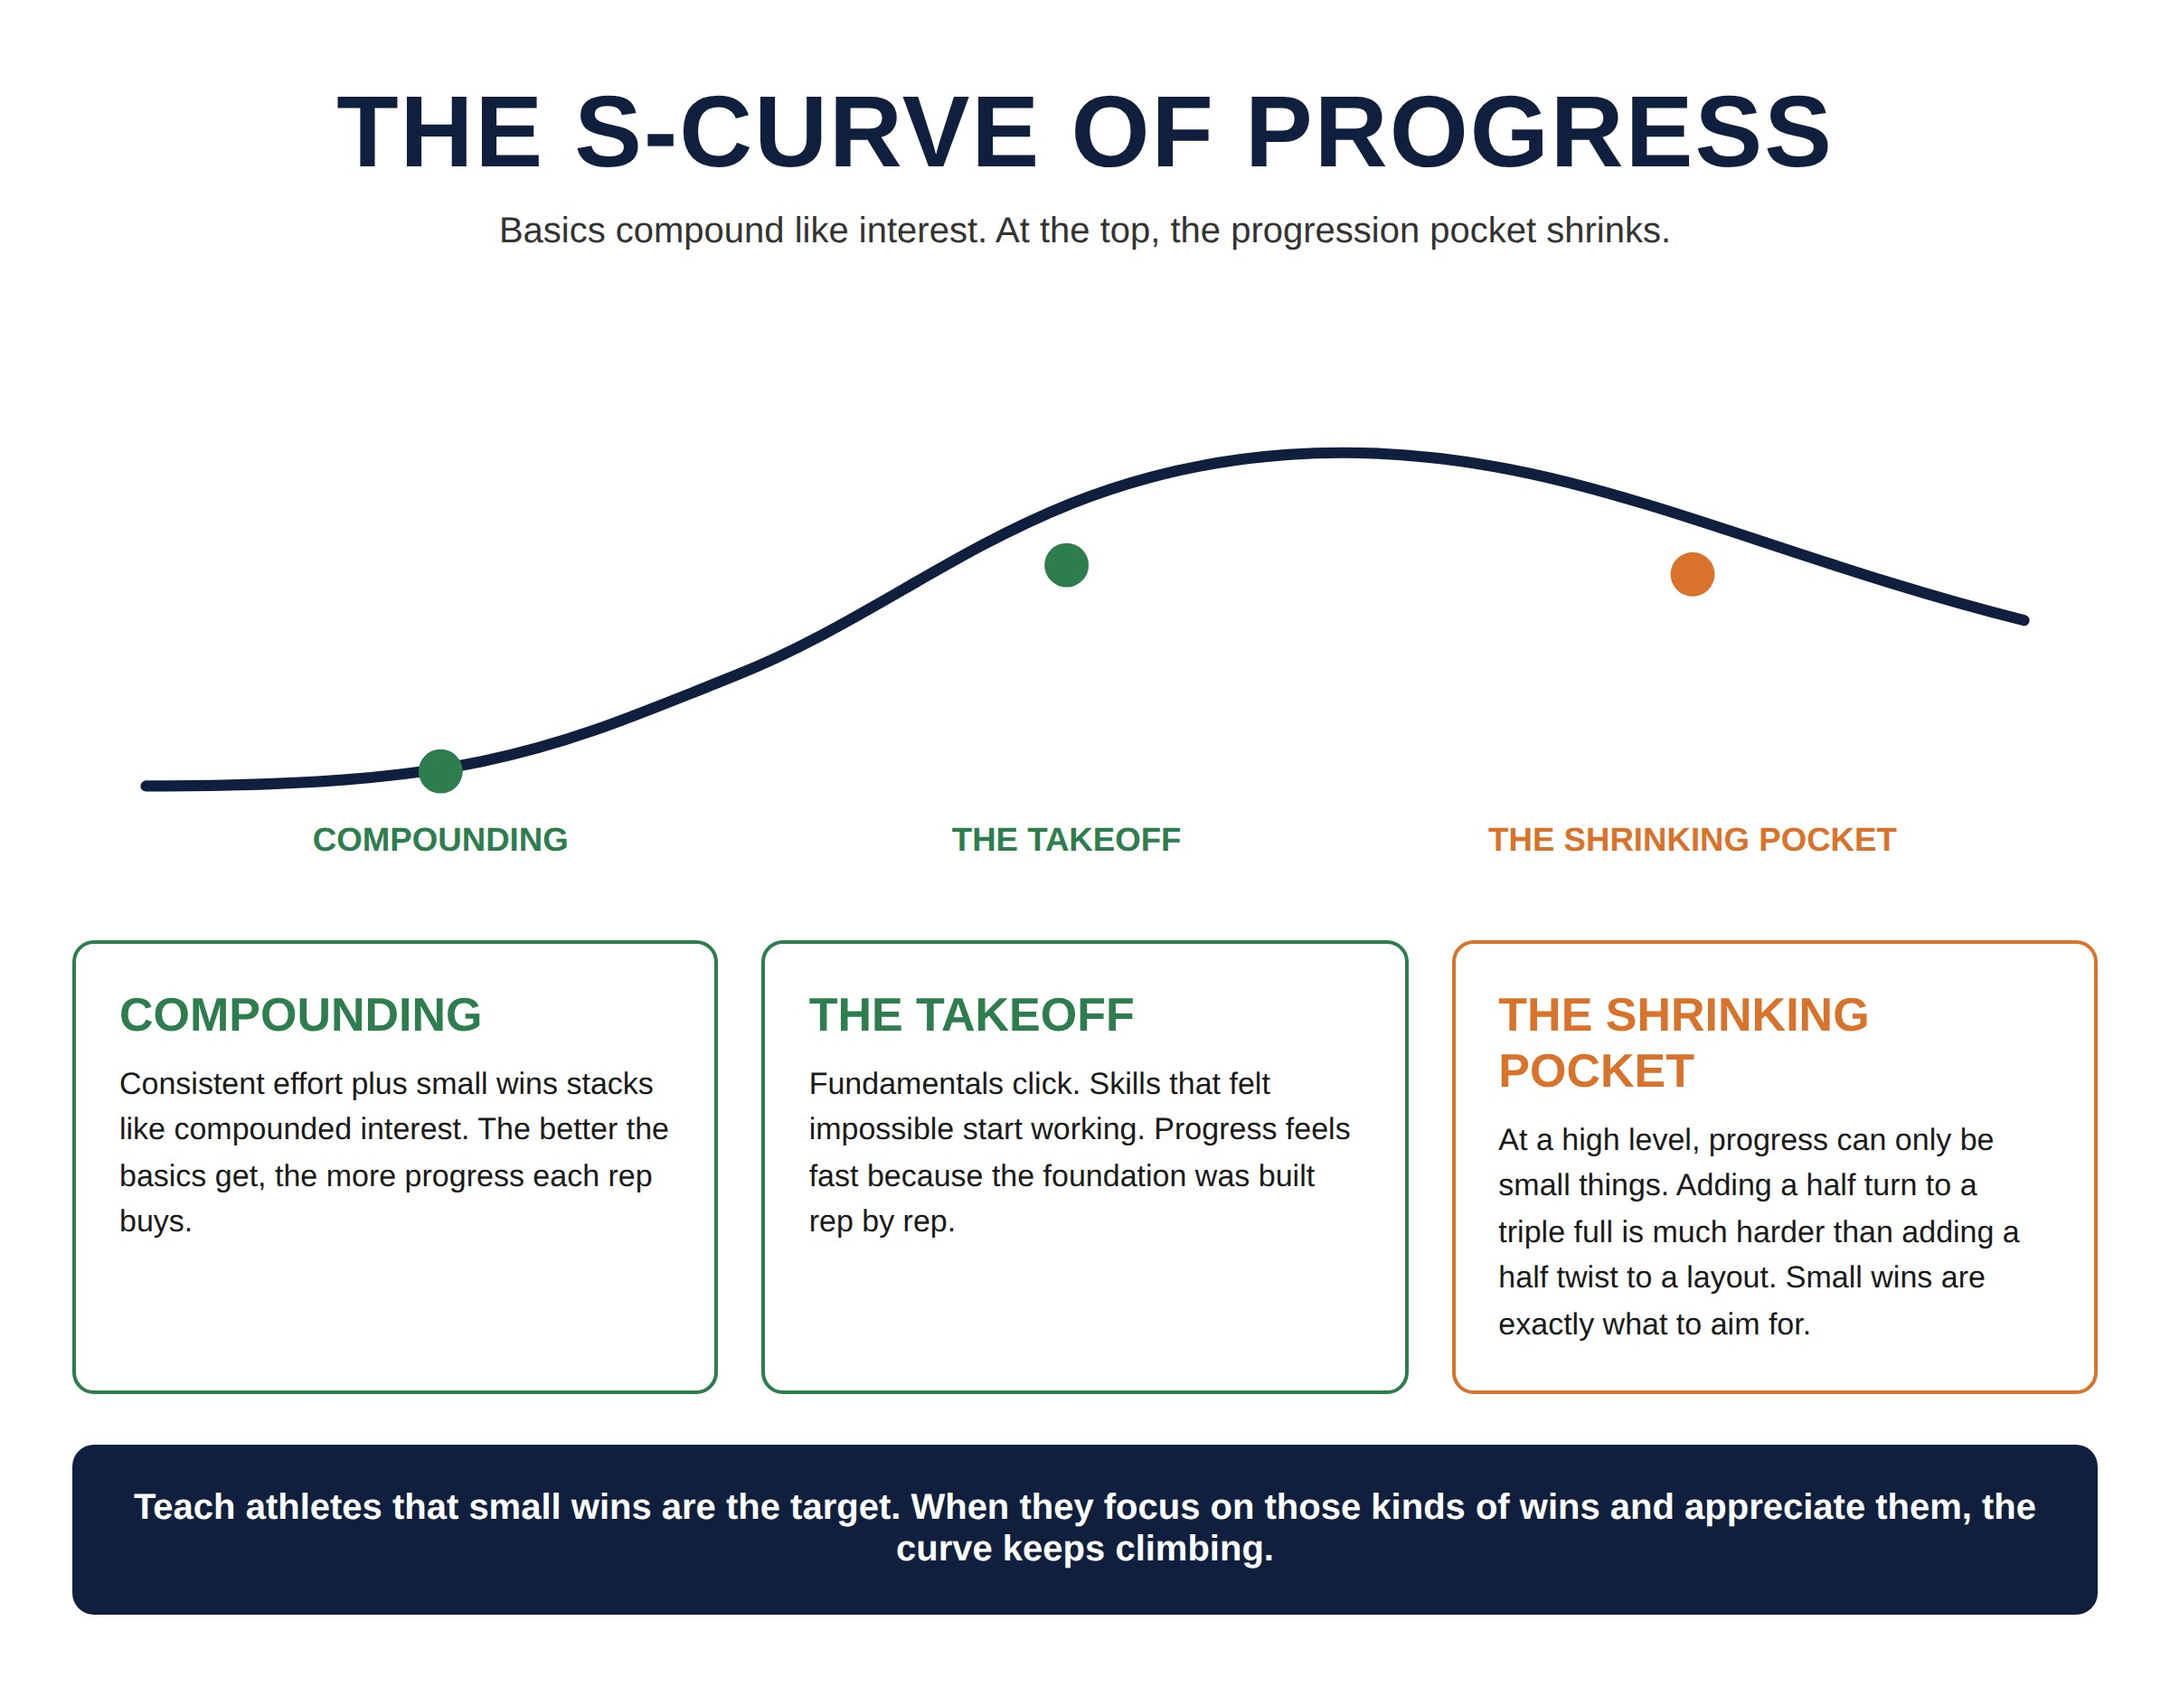
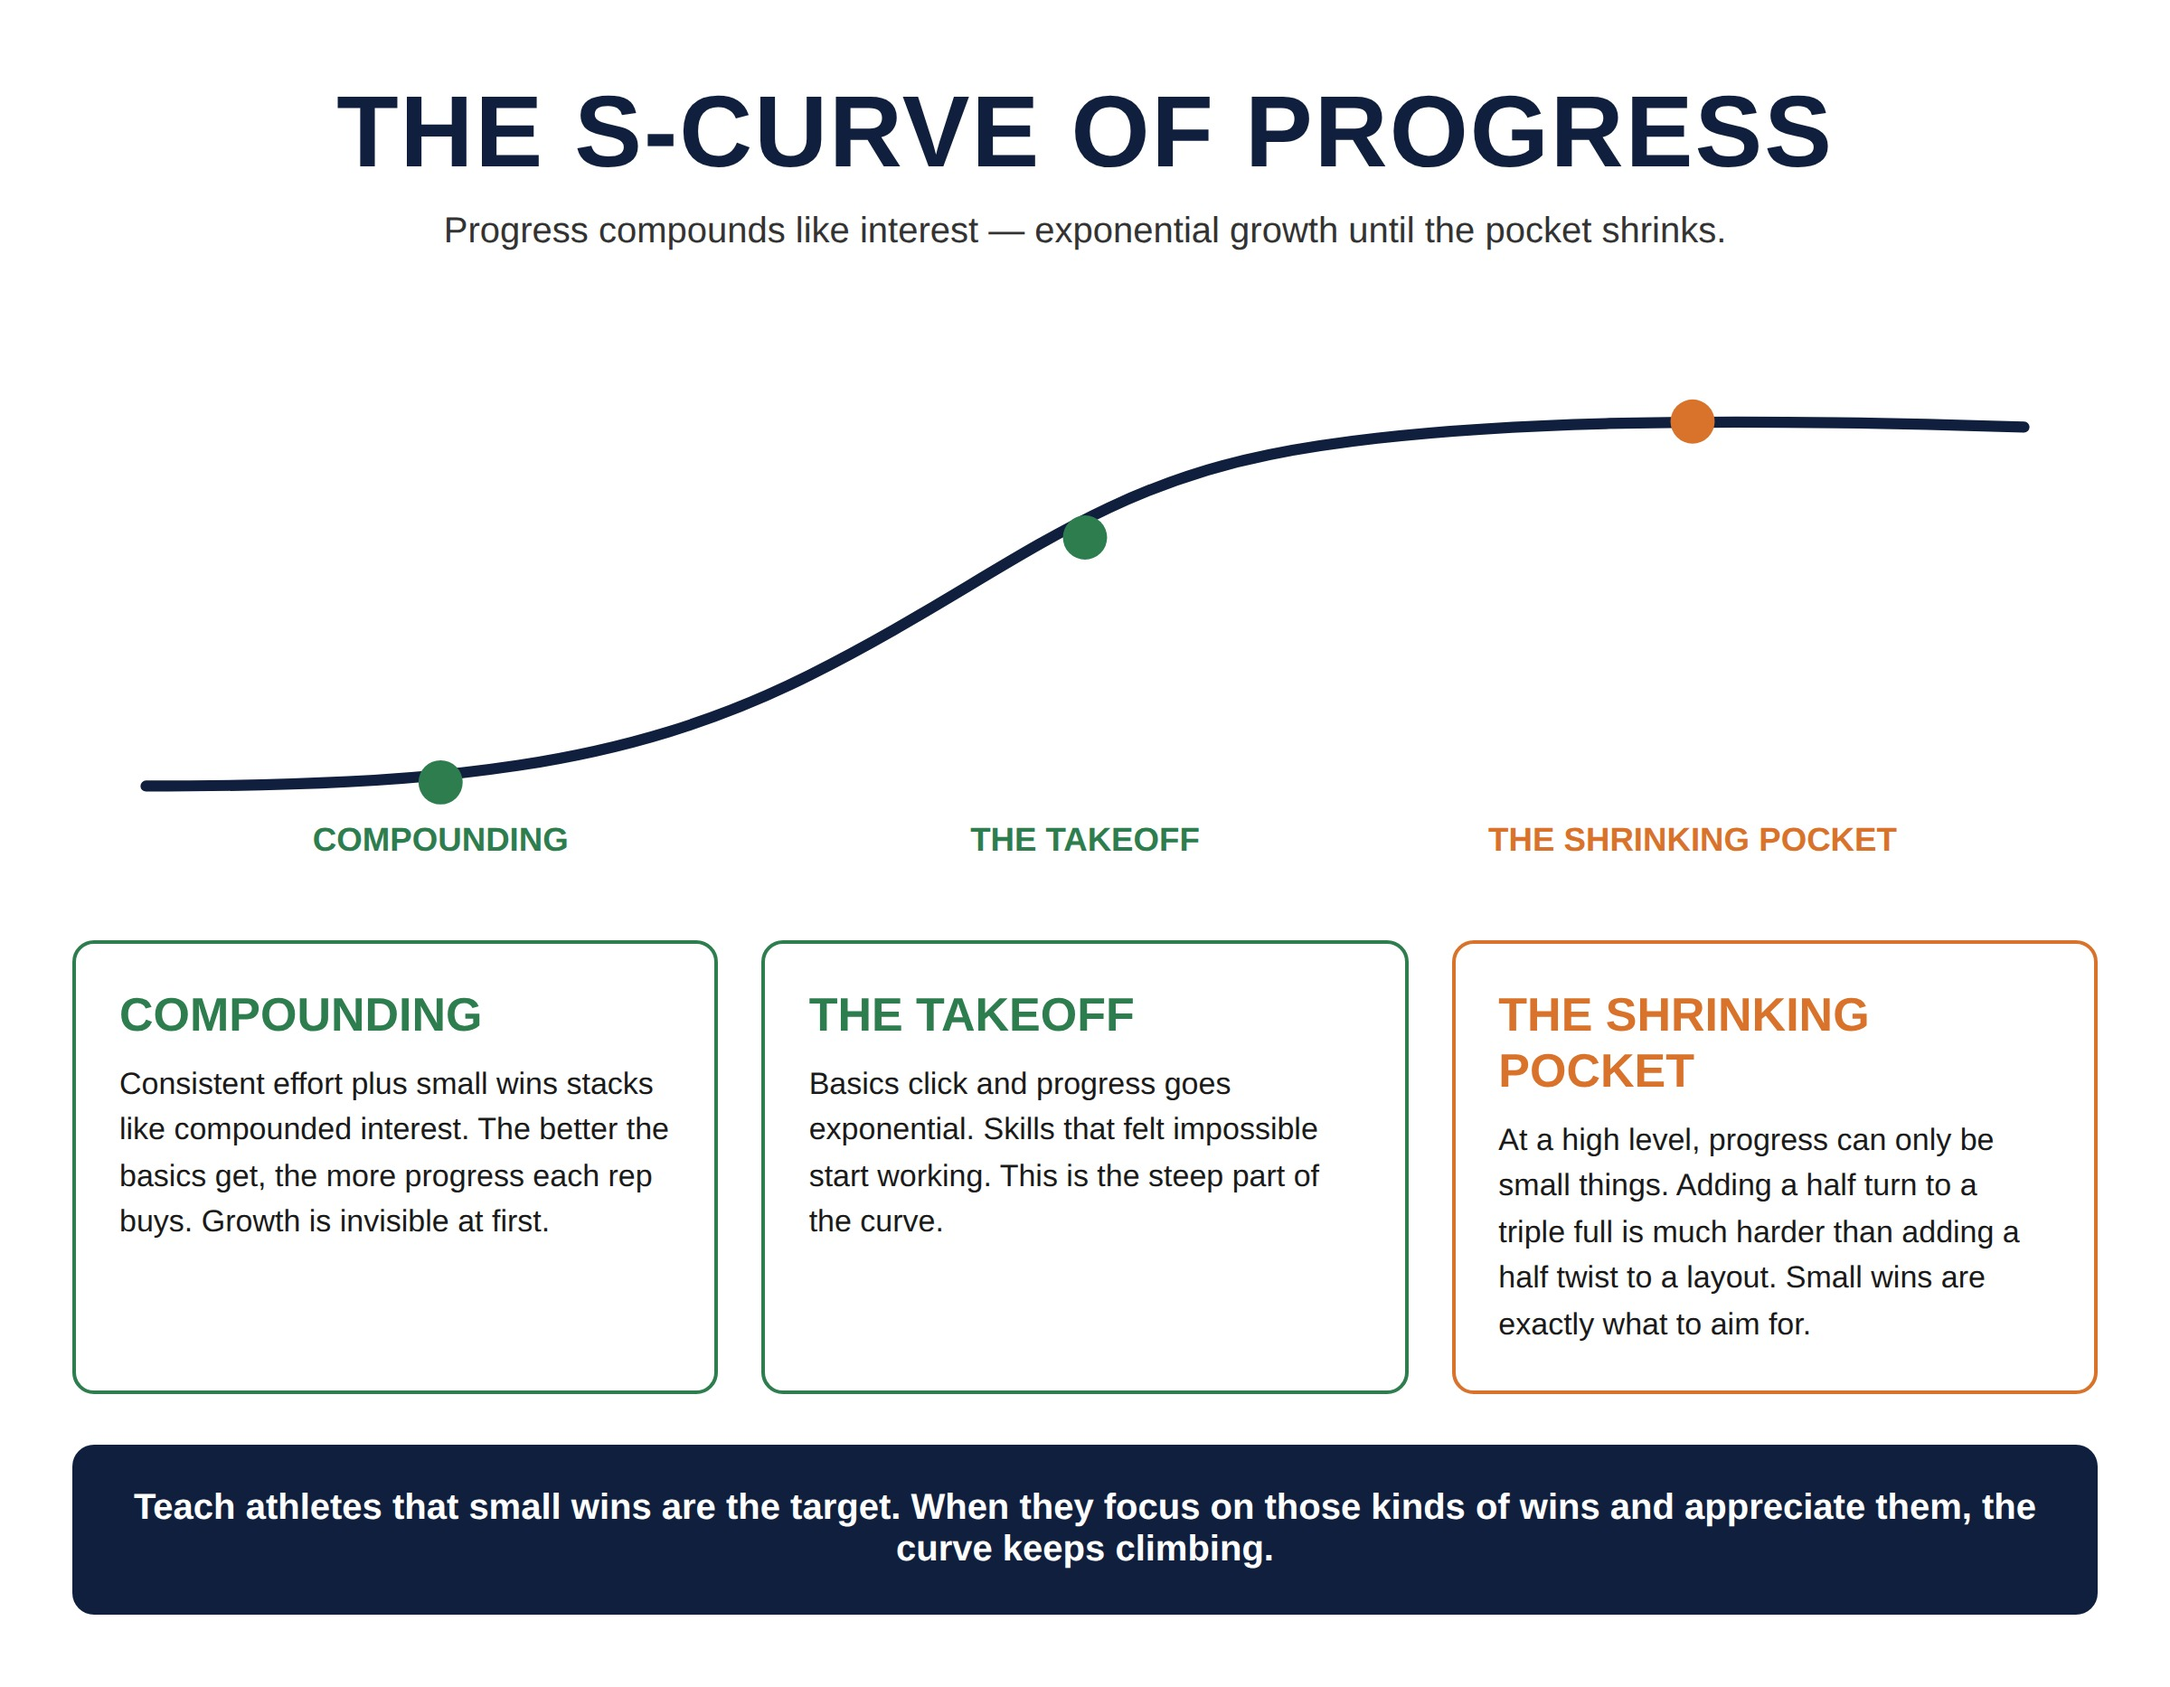
Real S-curve shape with exponential growth wording

diff --git a/docs/infographics/s-curve.html b/docs/infographics/s-curve.html
@@ -15,22 +15,22 @@
   .orange { border-color:#d9732b; } .orange h2 { color:#d9732b; }
 </style></head><body>
   <div class="title">THE S-CURVE OF PROGRESS</div>
-  <div class="subtitle">Basics compound like interest. At the top, the progression pocket shrinks.</div>
+  <div class="subtitle">Progress compounds like interest — exponential growth until the pocket shrinks.</div>
   <svg viewBox="0 0 1100 320" style="width:100%; display:block;">
-    <path d="M 40 260 C 220 260, 260 240, 360 200 S 520 90, 660 80 S 900 130, 1060 170"
+    <path d="M 40 260 C 200 260, 300 250, 400 200 C 500 150, 550 100, 650 80 C 750 60, 900 60, 1060 65"
       fill="none" stroke="#0f1f3d" stroke-width="6" stroke-linecap="round"/>
-    <circle cx="200" cy="252" r="12" fill="#2e7d4f"/><text x="200" y="295" text-anchor="middle" font-size="18" fill="#2e7d4f" font-weight="700">COMPOUNDING</text>
-    <circle cx="540" cy="140" r="12" fill="#2e7d4f"/><text x="540" y="295" text-anchor="middle" font-size="18" fill="#2e7d4f" font-weight="700">THE TAKEOFF</text>
-    <circle cx="880" cy="145" r="12" fill="#d9732b"/><text x="880" y="295" text-anchor="middle" font-size="18" fill="#d9732b" font-weight="700">THE SHRINKING POCKET</text>
+    <circle cx="200" cy="258" r="12" fill="#2e7d4f"/><text x="200" y="295" text-anchor="middle" font-size="18" fill="#2e7d4f" font-weight="700">COMPOUNDING</text>
+    <circle cx="550" cy="125" r="12" fill="#2e7d4f"/><text x="550" y="295" text-anchor="middle" font-size="18" fill="#2e7d4f" font-weight="700">THE TAKEOFF</text>
+    <circle cx="880" cy="62" r="12" fill="#d9732b"/><text x="880" y="295" text-anchor="middle" font-size="18" fill="#d9732b" font-weight="700">THE SHRINKING POCKET</text>
   </svg>
   <div class="cols">
     <div class="card green">
       <h2>COMPOUNDING</h2>
-      <p>Consistent effort plus small wins stacks like compounded interest. The better the basics get, the more progress each rep buys.</p>
+      <p>Consistent effort plus small wins stacks like compounded interest. The better the basics get, the more progress each rep buys. Growth is invisible at first.</p>
     </div>
     <div class="card green">
       <h2>THE TAKEOFF</h2>
-      <p>Fundamentals click. Skills that felt impossible start working. Progress feels fast because the foundation was built rep by rep.</p>
+      <p>Basics click and progress goes exponential. Skills that felt impossible start working. This is the steep part of the curve.</p>
     </div>
     <div class="card orange">
       <h2>THE SHRINKING POCKET</h2>

diff --git a/src/components/learn/ConceptCards.tsx b/src/components/learn/ConceptCards.tsx
@@ -77,18 +77,18 @@ function SCurveCard({ card }: { card: ConceptCard }) {
     <div>
       <svg viewBox="0 0 600 180" className="w-full" role="img" aria-label="S-curve of progress">
         <path
-          d="M 20 150 C 120 150, 140 150, 200 140 S 300 60, 380 55 S 520 90, 580 110"
+          d="M 20 150 C 100 150, 140 145, 190 120 C 240 95, 260 60, 320 45 C 380 30, 460 30, 580 35"
           fill="none"
           stroke="var(--accent)"
           strokeWidth="4"
           strokeLinecap="round"
         />
-        <circle cx="110" cy="148" r="7" fill="#8b99a3" />
-        <circle cx="290" cy="95" r="7" fill="#2e7d4f" />
-        <circle cx="480" cy="88" r="7" fill="#d9732b" />
-        <text x="110" y="172" textAnchor="middle" fontSize="12" fill="currentColor" opacity="0.7">flat start</text>
-        <text x="290" y="172" textAnchor="middle" fontSize="12" fill="currentColor" opacity="0.7">takeoff</text>
-        <text x="480" y="172" textAnchor="middle" fontSize="12" fill="currentColor" opacity="0.7">plateau</text>
+        <circle cx="110" cy="148" r="7" fill="#2e7d4f" />
+        <circle cx="280" cy="72" r="7" fill="#2e7d4f" />
+        <circle cx="480" cy="32" r="7" fill="#d9732b" />
+        <text x="110" y="172" textAnchor="middle" fontSize="12" fill="currentColor" opacity="0.7">compounding</text>
+        <text x="280" y="172" textAnchor="middle" fontSize="12" fill="currentColor" opacity="0.7">takeoff</text>
+        <text x="480" y="172" textAnchor="middle" fontSize="12" fill="currentColor" opacity="0.7">shrinking pocket</text>
       </svg>
       <div className="mt-2 grid gap-3 md:grid-cols-3">
         {d.phases.map((p) => (

diff --git a/src/config/conceptCards.ts b/src/config/conceptCards.ts
@@ -60,19 +60,19 @@ export const CONCEPT_CARDS: ConceptCard[] = [
   {
     id: 's-curve',
     title: 'The S-curve of progress',
-    subtitle: 'Basics compound like interest. At the top, the progression pocket shrinks.',
+    subtitle: 'Progress compounds like interest — exponential growth until the pocket shrinks.',
     kind: 'scurve',
     data: {
       phases: [
         {
           name: 'Compounding',
           color: '#2e7d4f',
-          text: 'Consistent effort plus small wins stacks like compounded interest. The better the basics get, the more progress each rep buys.',
+          text: 'Consistent effort plus small wins stacks like compounded interest. The better the basics get, the more progress each rep buys. Growth is invisible at first.',
         },
         {
           name: 'The takeoff',
           color: '#2e7d4f',
-          text: 'Fundamentals click. Skills that felt impossible start working. Progress feels fast because the foundation was built rep by rep.',
+          text: 'Basics click and progress goes exponential. Skills that felt impossible start working. This is the steep part of the curve.',
         },
         {
           name: 'The shrinking pocket',
